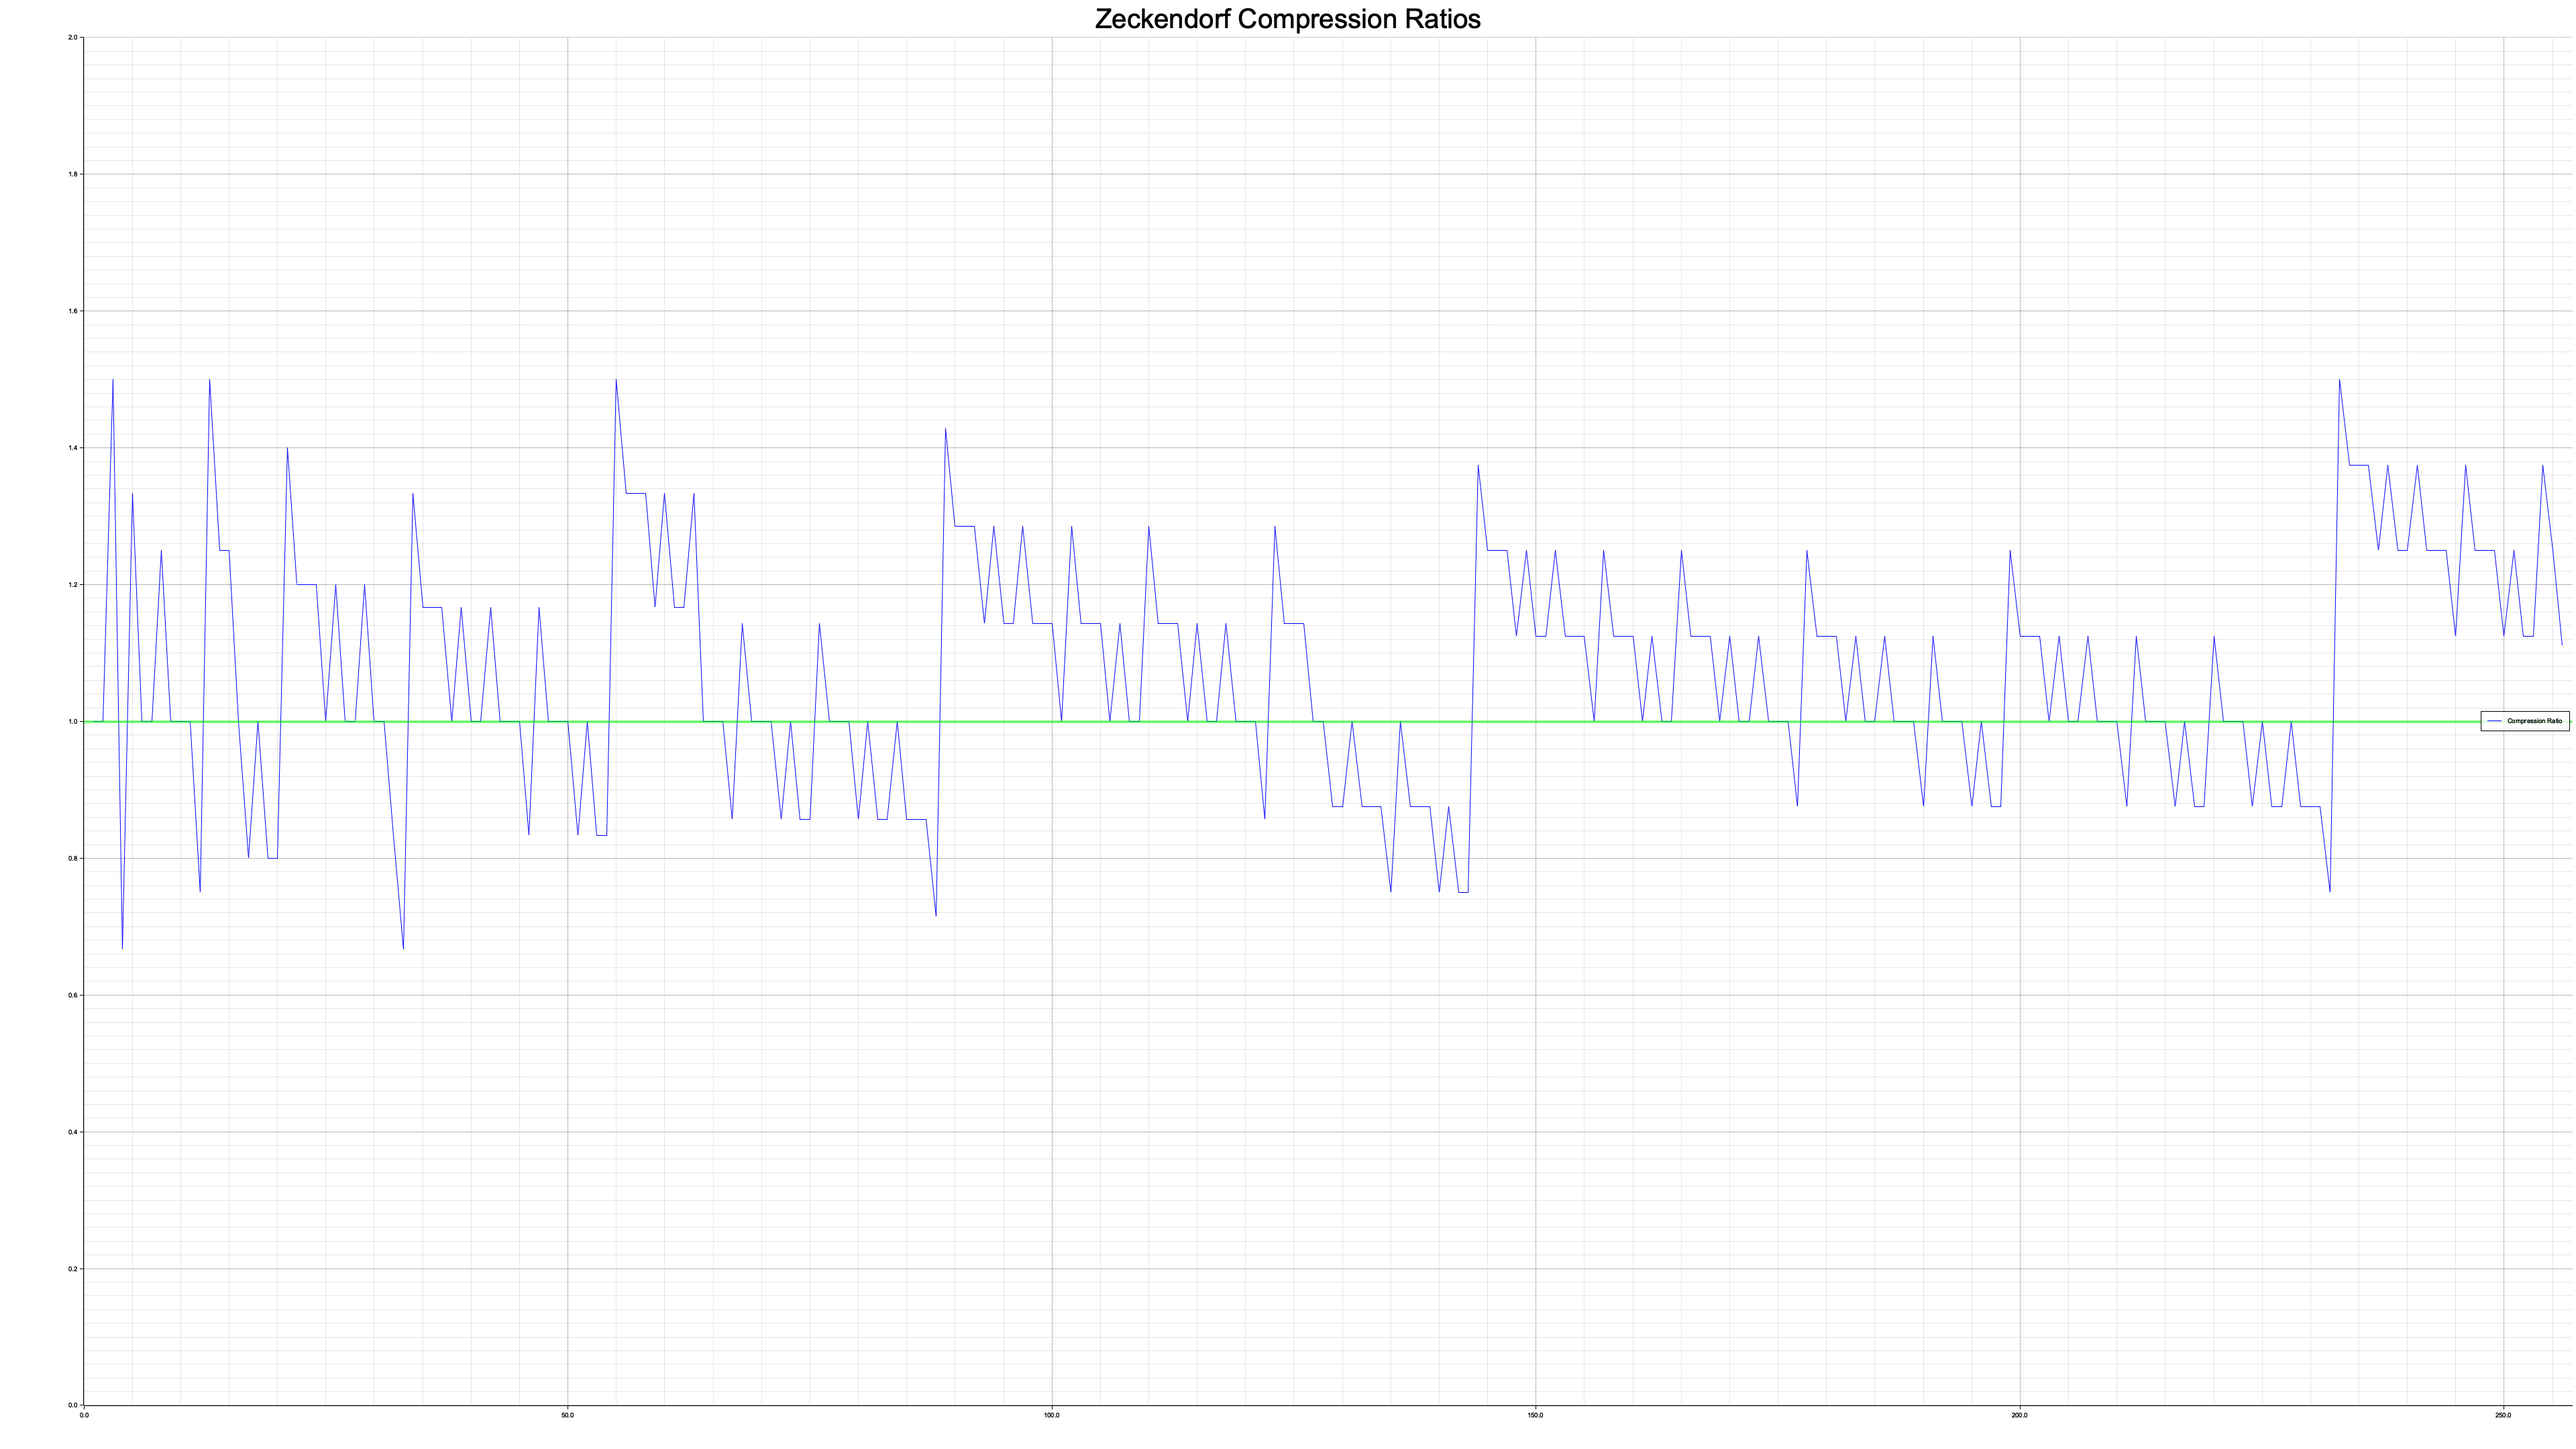
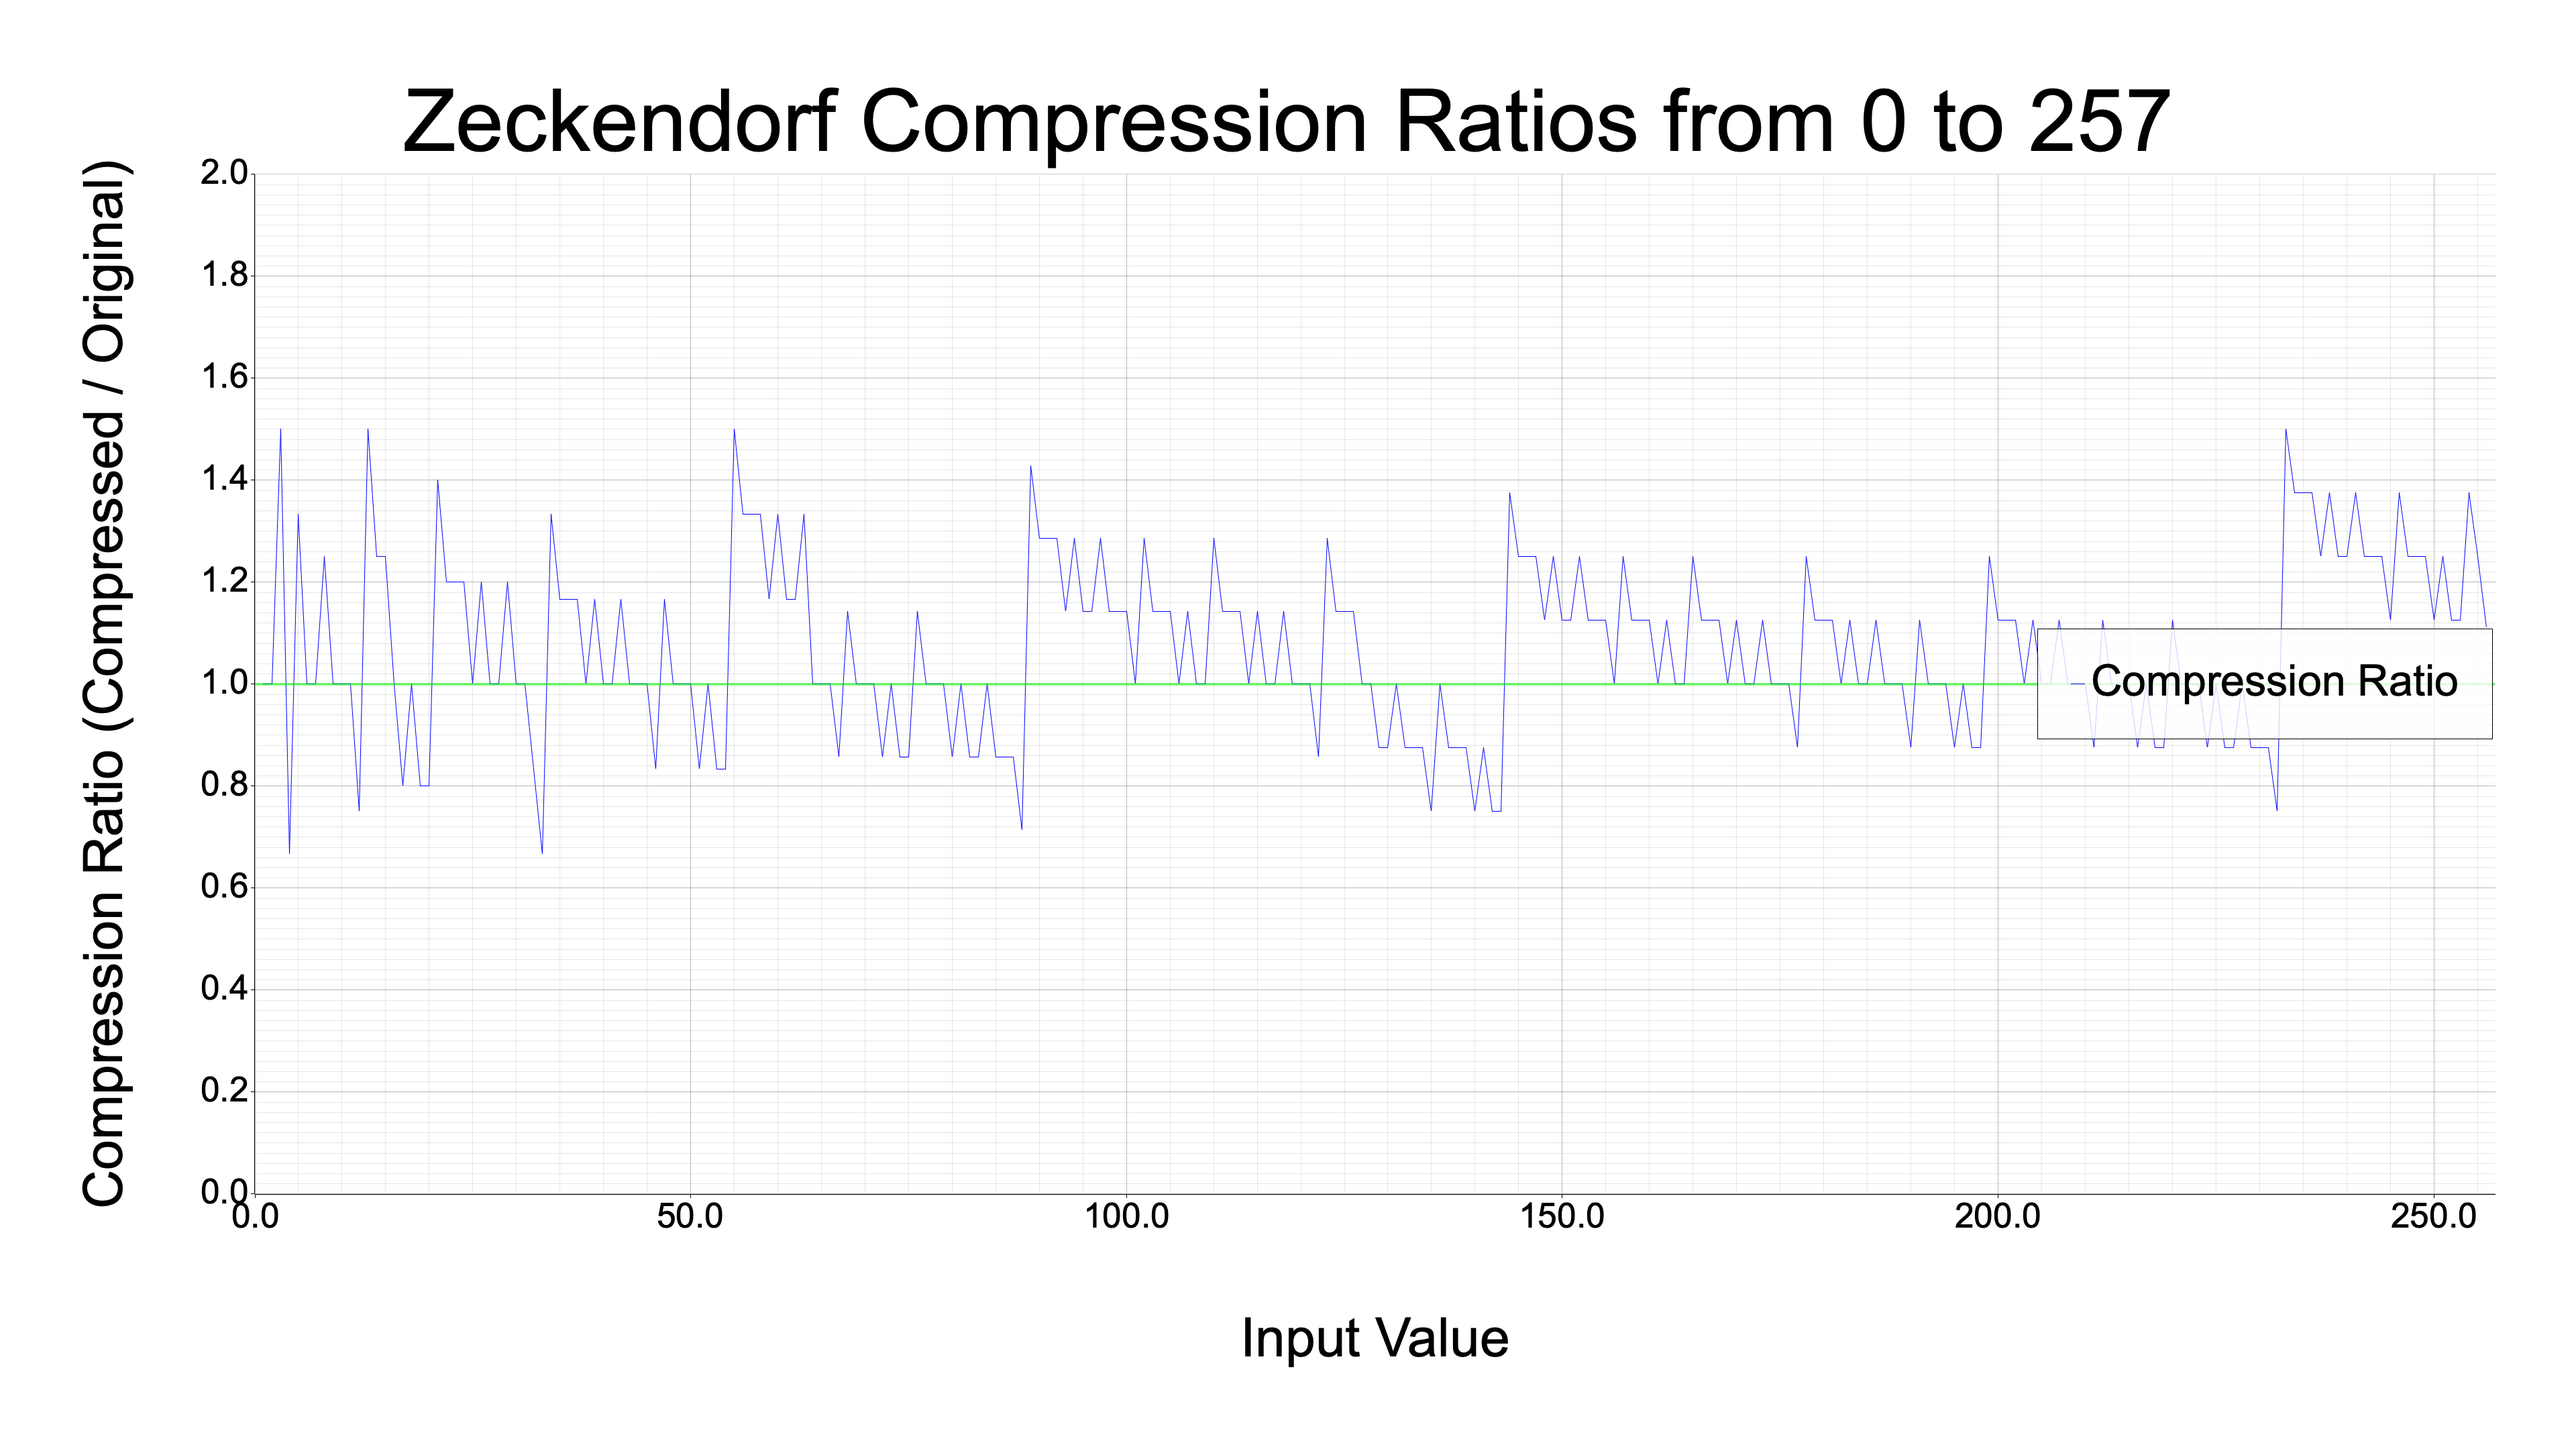
Update dependencies in Cargo.toml and Cargo.lock, adding `num-format` for improved number formatting capabilities. Enhance plotting functionality in `plot.rs` with new constants for better readability and maintainability. Update compression ratio plots to include additional ranges and improve axis l

Changed region(s): [[0.0312, 0.062, 1.0, 0.8685], [0.4688, 0.8995, 0.5938, 0.9616], [0.4375, 0.0, 0.5625, 0.031]]

diff --git a/src/bin/plot.rs b/src/bin/plot.rs
@@ -8,6 +8,16 @@ use plotters::prelude::*;
 use std::time::Instant;
 use zeckendorf_rs::*;
 
+const AXIS_FONT_SIZE: u32 = 100;
+const AXIS_TICK_FONT_SIZE: u32 = 64;
+const CAPTION_FONT_SIZE: u32 = 160;
+const LEGEND_FONT_SIZE: u32 = 80;
+const POINT_LABEL_FONT_SIZE: u32 = 40;
+const CHART_MARGIN: u32 = 120;
+const PLOT_WIDTH: u32 = 3840;
+const PLOT_HEIGHT: u32 = 2160;
+const LEGEND_MARGIN: u32 = 50;
+
 #[cfg(feature = "plotting")]
 fn main() {
     let start_time = Instant::now();
@@ -20,10 +30,12 @@ fn main() {
         .expect("Failed to plot Fibonacci numbers");
 
     // Example: Plot compression ratios
-    // plot_compression_ratios("plots/compression_ratios_0_to_100.png", 0..100).expect("Failed to plot compression ratios");
-    plot_compression_ratios("plots/compression_ratios_0_to_257.png", 0..257)
+    plot_compression_ratios("plots/compression_ratios_0_to_100.png", 0..100)
         .expect("Failed to plot compression ratios");
-    // plot_compression_ratios("plots/compression_ratios_0_to_1_000.png", 0..1_000).expect("Failed to plot compression ratios");
+    // plot_compression_ratios("plots/compression_ratios_0_to_257.png", 0..257)
+    //     .expect("Failed to plot compression ratios");
+    // plot_compression_ratios("plots/compression_ratios_0_to_1_000.png", 0..1_000)
+    //     .expect("Failed to plot compression ratios");
     // plot_compression_ratios("plots/compression_ratios_0_to_10_000.png", 0..10_000).expect("Failed to plot compression ratios");
     // plot_compression_ratios("plots/compression_ratios_0_to_100_000.png", 0..100_000).expect("Failed to plot compression ratios");
     // // Takes about 11 seconds to generate
@@ -42,7 +54,7 @@ fn plot_fibonacci_numbers(
 ) -> Result<(), Box<dyn std::error::Error>> {
     let start_time = Instant::now();
     println!("Plotting Fibonacci numbers for range {:?}", range);
-    let root = BitMapBackend::new(filename, (3840, 2160)).into_drawing_area();
+    let root = BitMapBackend::new(filename, (PLOT_WIDTH, PLOT_HEIGHT)).into_drawing_area();
     root.fill(&WHITE)?;
 
     // Find the maximum Fibonacci value in the range to set the log scale upper bound
@@ -55,17 +67,28 @@ fn plot_fibonacci_numbers(
     let mut chart = ChartBuilder::on(&root)
         .caption(
             "Fibonacci Numbers (Log Scale)",
-            ("sans-serif", 50).into_font(),
+            ("sans-serif", CAPTION_FONT_SIZE).into_font(),
         )
-        .margin(5)
-        .x_label_area_size(60)
-        .y_label_area_size(120)
+        .margin(CHART_MARGIN)
+        .x_label_area_size(200)
+        .y_label_area_size(300)
         .build_cartesian_2d(
             range.start as f64..range.end as f64,
             (1f64..max_fib).log_scale(),
         )?;
 
-    chart.configure_mesh().draw()?;
+    let axis_label_style =
+        TextStyle::from(("sans-serif", AXIS_FONT_SIZE).into_font()).color(&BLACK);
+    let axis_tick_style =
+        TextStyle::from(("sans-serif", AXIS_TICK_FONT_SIZE).into_font()).color(&BLACK);
+
+    chart
+        .configure_mesh()
+        .x_desc("Fibonacci Index")
+        .y_desc("Fibonacci Number")
+        .label_style(axis_tick_style)
+        .axis_desc_style(axis_label_style)
+        .draw()?;
 
     // Filter out zero values since log(0) is undefined
     let data: Vec<(f64, f64)> = range
@@ -97,12 +120,14 @@ fn plot_fibonacci_numbers(
         chart.draw_series(std::iter::once(Text::new(
             label,
             (text_x, text_y),
-            ("sans-serif", 32).into_font(),
+            ("sans-serif", POINT_LABEL_FONT_SIZE).into_font(),
         )))?;
     }
 
     chart
         .configure_series_labels()
+        .margin(LEGEND_MARGIN)
+        .label_font(("sans-serif", LEGEND_FONT_SIZE).into_font())
         .background_style(&WHITE.mix(0.8))
         .border_style(&BLACK)
         .draw()?;
@@ -123,22 +148,38 @@ fn plot_compression_ratios(
     filename: &str,
     range: std::ops::Range<u64>,
 ) -> Result<(), Box<dyn std::error::Error>> {
+    use num_format::{Locale, ToFormattedString};
+
     let start_time = Instant::now();
     println!("Plotting compression ratios for range {:?}", range);
-    let root = BitMapBackend::new(filename, (3840, 2160)).into_drawing_area();
+    let root = BitMapBackend::new(filename, (PLOT_WIDTH, PLOT_HEIGHT)).into_drawing_area();
     root.fill(&WHITE)?;
 
     let mut chart = ChartBuilder::on(&root)
         .caption(
-            "Zeckendorf Compression Ratios",
-            ("sans-serif", 50).into_font(),
+            format!(
+                "Zeckendorf Compression Ratios from {} to {}",
+                range.start,
+                range.end.to_formatted_string(&Locale::en)
+            ),
+            ("sans-serif", CAPTION_FONT_SIZE).into_font(),
         )
-        .margin(5)
-        .x_label_area_size(60)
-        .y_label_area_size(120)
+        .margin(CHART_MARGIN)
+        .x_label_area_size(260)
+        .y_label_area_size(260)
         .build_cartesian_2d(range.start as f64..range.end as f64, 0.0f64..2.0f64)?;
 
-    chart.configure_mesh().draw()?;
+    let axis_label_style =
+        TextStyle::from(("sans-serif", AXIS_FONT_SIZE).into_font()).color(&BLACK);
+    let axis_tick_style =
+        TextStyle::from(("sans-serif", AXIS_TICK_FONT_SIZE).into_font()).color(&BLACK);
+    chart
+        .configure_mesh()
+        .x_desc("Input Value")
+        .y_desc("Compression Ratio (Compressed / Original)")
+        .label_style(axis_tick_style)
+        .axis_desc_style(axis_label_style)
+        .draw()?;
 
     let data: Vec<(f64, f64)> = range
         .clone()
@@ -179,6 +220,8 @@ fn plot_compression_ratios(
 
     chart
         .configure_series_labels()
+        .margin(LEGEND_MARGIN)
+        .label_font(("sans-serif", LEGEND_FONT_SIZE).into_font())
         .background_style(&WHITE.mix(0.8))
         .border_style(&BLACK)
         .draw()?;
